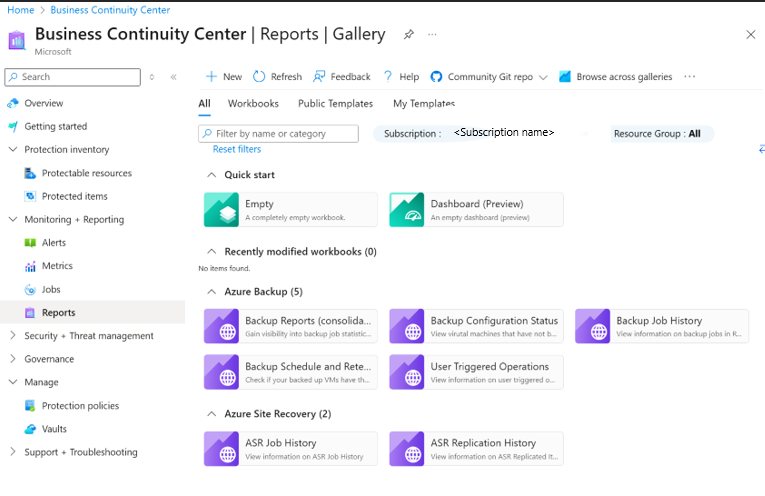
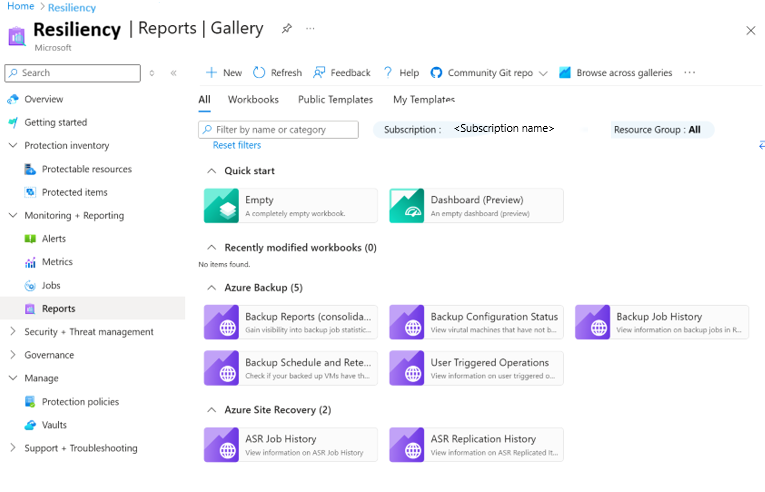
Updated image to resiliency

diff --git a/articles/backup/view-reports.md b/articles/backup/view-reports.md
@@ -2,7 +2,7 @@
 title: View reports for Azure Backup
 description: Learn how to view backup reports.
 ms.topic: how-to
-ms.date: 01/23/2026
+ms.date: 01/30/2026
 ms.custom: references_regions, devx-track-azurepowershell
 ms.service: azure-backup
 author: AbhishekMallick-MS
